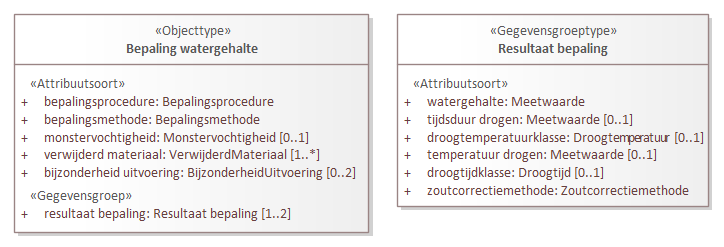
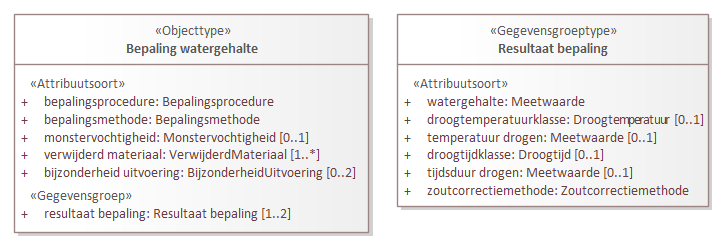
Conceptualmodel-GeotechnischbooronderzoekBHR-GT-2.3-2-20260424-20260701-112116

Changed region(s): [[0.5773, 0.5385, 0.9724, 0.6518], [0.5773, 0.4534, 0.9724, 0.5101], [0.5773, 0.6802, 0.8812, 0.7368]]

diff --git a/data/BHR-GT-cat.msword.html b/data/BHR-GT-cat.msword.html
@@ -6,7 +6,7 @@
                     table.list tbody tr th {background-color: #d3d3d3;}
                     table.list tbody tr th,
                     table.list tbody tr td {border: 1px solid black;}
-                </style></head><body><p>Conceptual model/Geotechnisch booronderzoek (BHR-GT)/20260424</p><p>Imvertor: Nightly-build.0</p><p>Model release: Conceptualmodel-GeotechnischbooronderzoekBHR-GT-2.3-2-20260424-20260701-084257</p><hr><section><h1>Artikel 1 Definitie van registratieobject, entiteiten en attributen</h1><section><h2>Registratieobject</h2><section id="global_class_Model_Registratieobject">
+                </style></head><body><p>Conceptual model/Geotechnisch booronderzoek (BHR-GT)/20260424</p><p>Imvertor: Nightly-build.0</p><p>Model release: Conceptualmodel-GeotechnischbooronderzoekBHR-GT-2.3-2-20260424-20260701-112116</p><hr><section><h1>Artikel 1 Definitie van registratieobject, entiteiten en attributen</h1><section><h2>Registratieobject</h2><section id="global_class_Model_Registratieobject">
                <table style="width: 100%;"><colgroup style="width: 30%;"></colgroup><colgroup style="width: 70%;"></colgroup><tbody><tr><th scope="row">Naam</th><td>Booronderzoek</td></tr><tr><th scope="row">Code</th><td>BHR</td></tr><tr><th scope="row">Definitie</th><td>
                         <p>Het geheel van gegevens dat betrekking heeft op een booronderzoek dat vanuit een bepaalde opdracht is uitgevoerd door op een bepaald moment op een bepaalde locatie in Nederland of zijn Exclusieve Economische Zone een boring uit te voeren en de monsters die daarmee uit de ondergrond zijn verkregen te beschrijven en/of te onderzoeken en/of in het boorgat zelf metingen aan de ondergrond uit te voeren.</p>
                      </td></tr><tr><th scope="row">Populatie</th><td>
@@ -5719,20 +5719,12 @@ Bij welke temperatuur er is gedroogd en hoe lang dat is gedaan, wordt uitgedrukt
                            <p>De verhouding tussen de hoeveelheid water en de hoeveelheid droge stof, uitgedrukt in massaprocenten.</p>
                         </td></tr><tr><th scope="row">Juridische status</th><td>Authentiek</td></tr><tr><th scope="row">Kardinaliteit</th><td>1</td></tr><tr><th scope="row">Domein</th><td></td></tr><tr><th scope="row">&nbsp;&nbsp;Naam</th><td>Meetwaarde 
                         4.1</td></tr><tr><th scope="row">&nbsp;&nbsp;Eenheid</th><td>% (procent)</td></tr><tr><th scope="row">&nbsp;&nbsp;Waardebereik</th><td>0 tot 2000</td></tr></tbody></table>
-               </section><section id="detail_attribute_Model_Resultaatbepaling_tijdsduurdrogen"><h4>  tijdsduur drogen</h4>
-                  <table style="width: 100%;"><colgroup style="width: 30%;"></colgroup><colgroup style="width: 70%;"></colgroup><tbody><tr><th scope="row">Type gegeven</th><td>Attribuut van Resultaat bepaling</td></tr><tr><th scope="row">Definitie</th><td>
-                           <p>De lengte van de periode gedurende welke het materiaal is gedroogd.</p>
-                        </td></tr><tr><th scope="row">Juridische status</th><td>Authentiek</td></tr><tr><th scope="row">Kardinaliteit</th><td>0..1</td></tr><tr><th scope="row">Domein</th><td></td></tr><tr><th scope="row">&nbsp;&nbsp;Naam</th><td>Meetwaarde 
-                        2.0</td></tr><tr><th scope="row">&nbsp;&nbsp;Eenheid</th><td>h (uur)</td></tr><tr><th scope="row">&nbsp;&nbsp;Waardebereik</th><td> vanaf 0</td></tr><tr><th scope="row">Regels</th><td>
-                           <p>Het attribuut moet aanwezig zijn wanneer de waarde van het attribuut <em>bepalingsprocedure</em> van de entiteit <em>Bepaling watergehalte</em> gelijk is aan <em>NEN_EN_ISO17892d1v2022_NEN8992v2025</em>.</p>
-                        </td></tr><tr><th scope="row">Toelichting</th><td>
-                           <p>Meestal wordt het materiaal 16 tot 24 uur gedroogd en neemt men aan dat al het water dan verdampt is. In uitzonderlijke gevallen is dat niet voldoende. Om zeker te weten dat al het water is verdampt, droogt men dan tot de massa van het materiaal na een uur drogen niet meer is veranderd.</p>
-                        </td></tr></tbody></table>
                </section><section id="detail_attribute_Model_Resultaatbepaling_droogtemperatuurklasse"><h4>  droogtemperatuurklasse</h4>
                   <table style="width: 100%;"><colgroup style="width: 30%;"></colgroup><colgroup style="width: 70%;"></colgroup><tbody><tr><th scope="row">Type gegeven</th><td>Attribuut van Resultaat bepaling</td></tr><tr><th scope="row">Definitie</th><td>
                            <p>De temperatuur waarbij het materiaal is gedroogd, uitgedrukt in een klasse.</p>
                         </td></tr><tr><th scope="row">Juridische status</th><td>Authentiek</td></tr><tr><th scope="row">Kardinaliteit</th><td>0..1</td></tr><tr><th scope="row">Domein</th><td></td></tr><tr><th scope="row">&nbsp;&nbsp;Naam</th><td><a class="link" href="#detail_class_Model_Droogtemperatuur">Droogtemperatuur</a></td></tr><tr><th scope="row">&nbsp;&nbsp;Type</th><td>Waardelijst uitbreidbaar</td></tr><tr><th scope="row">Regels</th><td>
-                           <p>Het attribuut mag niet aanwezig zijn wanneer de waarde van het attribuut <em>bepalingsprocedure</em> van de entiteit <em>Bepaling watergehalte</em> gelijk is aan <em>NEN_EN_ISO17892d1v2022_NEN8992v2025</em>.</p>
+                           <p>Het attribuut moet aanwezig zijn wanneer de waarde van het attribuut <em>bepalingsprocedure</em> van de entiteit <em>Bepaling watergehalte</em> gelijk is aan <em>ISO17892d1v2014</em>.<br clear="none">
+Het attribuut mag niet aanwezig zijn wanneer de waarde van het attribuut <em>bepalingsprocedure</em> van de entiteit <em>Bepaling watergehalte</em> gelijk is aan <em>NEN_EN_ISO17892d1v2022_NEN8992v2025</em>.</p>
                         </td></tr><tr><th scope="row">Toelichting</th><td>
                            <p>Afhankelijk van hoe nauwkeurig de droogtemperatuur op de apparatuur kan worden ingesteld, kan de geregistreerde temperatuur afwijken van de werkelijke temperatuur. De bepalingsprocedure kan voorwaarden stellen wat betreft de toegestane afwijking in het meten van de temperatuur.</p>
                         </td></tr></tbody></table>
@@ -5749,7 +5741,17 @@ Bij welke temperatuur er is gedroogd en hoe lang dat is gedaan, wordt uitgedrukt
                   <table style="width: 100%;"><colgroup style="width: 30%;"></colgroup><colgroup style="width: 70%;"></colgroup><tbody><tr><th scope="row">Type gegeven</th><td>Attribuut van Resultaat bepaling</td></tr><tr><th scope="row">Definitie</th><td>
                            <p>De lengte van de periode gedurende welke het materiaal is gedroogd, uitgedrukt in een klasse.</p>
                         </td></tr><tr><th scope="row">Juridische status</th><td>Authentiek</td></tr><tr><th scope="row">Kardinaliteit</th><td>0..1</td></tr><tr><th scope="row">Domein</th><td></td></tr><tr><th scope="row">&nbsp;&nbsp;Naam</th><td><a class="link" href="#detail_class_Model_Droogtijd">Droogtijd</a></td></tr><tr><th scope="row">&nbsp;&nbsp;Type</th><td>Waardelijst uitbreidbaar</td></tr><tr><th scope="row">Regels</th><td>
-                           <p>Het attribuut mag niet aanwezig zijn wanneer de waarde van het attribuut <em>bepalingsprocedure</em> van de entiteit <em>Bepaling watergehalte</em> gelijk is aan <em>NEN_EN_ISO17892d1v2022_NEN8992v2025</em>.</p>
+                           <p>Het attribuut moet aanwezig zijn wanneer de waarde van het attribuut <em>bepalingsprocedure</em> van de entiteit <em>Bepaling watergehalte</em> gelijk is aan <em>ISO17892d1v2014</em>.<br clear="none">
+Het attribuut mag niet aanwezig zijn wanneer de waarde van het attribuut <em>bepalingsprocedure</em> van de entiteit <em>Bepaling watergehalte</em> gelijk is aan <em>NEN_EN_ISO17892d1v2022_NEN8992v2025</em>.</p>
+                        </td></tr><tr><th scope="row">Toelichting</th><td>
+                           <p>Meestal wordt het materiaal 16 tot 24 uur gedroogd en neemt men aan dat al het water dan verdampt is. In uitzonderlijke gevallen is dat niet voldoende. Om zeker te weten dat al het water is verdampt, droogt men dan tot de massa van het materiaal na een uur drogen niet meer is veranderd.</p>
+                        </td></tr></tbody></table>
+               </section><section id="detail_attribute_Model_Resultaatbepaling_tijdsduurdrogen"><h4>  tijdsduur drogen</h4>
+                  <table style="width: 100%;"><colgroup style="width: 30%;"></colgroup><colgroup style="width: 70%;"></colgroup><tbody><tr><th scope="row">Type gegeven</th><td>Attribuut van Resultaat bepaling</td></tr><tr><th scope="row">Definitie</th><td>
+                           <p>De lengte van de periode gedurende welke het materiaal is gedroogd.</p>
+                        </td></tr><tr><th scope="row">Juridische status</th><td>Authentiek</td></tr><tr><th scope="row">Kardinaliteit</th><td>0..1</td></tr><tr><th scope="row">Domein</th><td></td></tr><tr><th scope="row">&nbsp;&nbsp;Naam</th><td>Meetwaarde 
+                        2.0</td></tr><tr><th scope="row">&nbsp;&nbsp;Eenheid</th><td>h (uur)</td></tr><tr><th scope="row">&nbsp;&nbsp;Waardebereik</th><td> vanaf 0</td></tr><tr><th scope="row">Regels</th><td>
+                           <p>Het attribuut moet aanwezig zijn wanneer de waarde van het attribuut <em>bepalingsprocedure</em> van de entiteit <em>Bepaling watergehalte</em> gelijk is aan <em>NEN_EN_ISO17892d1v2022_NEN8992v2025</em>.</p>
                         </td></tr><tr><th scope="row">Toelichting</th><td>
                            <p>Meestal wordt het materiaal 16 tot 24 uur gedroogd en neemt men aan dat al het water dan verdampt is. In uitzonderlijke gevallen is dat niet voldoende. Om zeker te weten dat al het water is verdampt, droogt men dan tot de massa van het materiaal na een uur drogen niet meer is veranderd.</p>
                         </td></tr></tbody></table>

diff --git a/data/BHR-GT-cat.respec.html b/data/BHR-GT-cat.respec.html
@@ -5711,20 +5711,12 @@ Bij welke temperatuur er is gedroogd en hoe lang dat is gedaan, wordt uitgedrukt
                            <p>De verhouding tussen de hoeveelheid water en de hoeveelheid droge stof, uitgedrukt in massaprocenten.</p>
                         </td></tr><tr><th scope="row">Juridische status</th><td>Authentiek</td></tr><tr><th scope="row">Kardinaliteit</th><td>1</td></tr><tr><th scope="row">Domein</th><td></td></tr><tr><th scope="row">&nbsp;&nbsp;Naam</th><td>Meetwaarde 
                         4.1</td></tr><tr><th scope="row">&nbsp;&nbsp;Eenheid</th><td>% (procent)</td></tr><tr><th scope="row">&nbsp;&nbsp;Waardebereik</th><td>0 tot 2000</td></tr></tbody></table>
-               </section><section id="detail_attribute_Model_Resultaatbepaling_tijdsduurdrogen"><h4>  tijdsduur drogen</h4>
-                  <table style="width: 100%;"><colgroup style="width: 30%;"></colgroup><colgroup style="width: 70%;"></colgroup><tbody><tr><th scope="row">Type gegeven</th><td>Attribuut van Resultaat bepaling</td></tr><tr><th scope="row">Definitie</th><td>
-                           <p>De lengte van de periode gedurende welke het materiaal is gedroogd.</p>
-                        </td></tr><tr><th scope="row">Juridische status</th><td>Authentiek</td></tr><tr><th scope="row">Kardinaliteit</th><td>0..1</td></tr><tr><th scope="row">Domein</th><td></td></tr><tr><th scope="row">&nbsp;&nbsp;Naam</th><td>Meetwaarde 
-                        2.0</td></tr><tr><th scope="row">&nbsp;&nbsp;Eenheid</th><td>h (uur)</td></tr><tr><th scope="row">&nbsp;&nbsp;Waardebereik</th><td> vanaf 0</td></tr><tr><th scope="row">Regels</th><td>
-                           <p>Het attribuut moet aanwezig zijn wanneer de waarde van het attribuut <em>bepalingsprocedure</em> van de entiteit <em>Bepaling watergehalte</em> gelijk is aan <em>NEN_EN_ISO17892d1v2022_NEN8992v2025</em>.</p>
-                        </td></tr><tr><th scope="row">Toelichting</th><td>
-                           <p>Meestal wordt het materiaal 16 tot 24 uur gedroogd en neemt men aan dat al het water dan verdampt is. In uitzonderlijke gevallen is dat niet voldoende. Om zeker te weten dat al het water is verdampt, droogt men dan tot de massa van het materiaal na een uur drogen niet meer is veranderd.</p>
-                        </td></tr></tbody></table>
                </section><section id="detail_attribute_Model_Resultaatbepaling_droogtemperatuurklasse"><h4>  droogtemperatuurklasse</h4>
                   <table style="width: 100%;"><colgroup style="width: 30%;"></colgroup><colgroup style="width: 70%;"></colgroup><tbody><tr><th scope="row">Type gegeven</th><td>Attribuut van Resultaat bepaling</td></tr><tr><th scope="row">Definitie</th><td>
                            <p>De temperatuur waarbij het materiaal is gedroogd, uitgedrukt in een klasse.</p>
                         </td></tr><tr><th scope="row">Juridische status</th><td>Authentiek</td></tr><tr><th scope="row">Kardinaliteit</th><td>0..1</td></tr><tr><th scope="row">Domein</th><td></td></tr><tr><th scope="row">&nbsp;&nbsp;Naam</th><td><a class="link" href="#detail_class_Model_Droogtemperatuur">Droogtemperatuur</a></td></tr><tr><th scope="row">&nbsp;&nbsp;Type</th><td>Waardelijst uitbreidbaar</td></tr><tr><th scope="row">Regels</th><td>
-                           <p>Het attribuut mag niet aanwezig zijn wanneer de waarde van het attribuut <em>bepalingsprocedure</em> van de entiteit <em>Bepaling watergehalte</em> gelijk is aan <em>NEN_EN_ISO17892d1v2022_NEN8992v2025</em>.</p>
+                           <p>Het attribuut moet aanwezig zijn wanneer de waarde van het attribuut <em>bepalingsprocedure</em> van de entiteit <em>Bepaling watergehalte</em> gelijk is aan <em>ISO17892d1v2014</em>.<br clear="none">
+Het attribuut mag niet aanwezig zijn wanneer de waarde van het attribuut <em>bepalingsprocedure</em> van de entiteit <em>Bepaling watergehalte</em> gelijk is aan <em>NEN_EN_ISO17892d1v2022_NEN8992v2025</em>.</p>
                         </td></tr><tr><th scope="row">Toelichting</th><td>
                            <p>Afhankelijk van hoe nauwkeurig de droogtemperatuur op de apparatuur kan worden ingesteld, kan de geregistreerde temperatuur afwijken van de werkelijke temperatuur. De bepalingsprocedure kan voorwaarden stellen wat betreft de toegestane afwijking in het meten van de temperatuur.</p>
                         </td></tr></tbody></table>
@@ -5741,7 +5733,17 @@ Bij welke temperatuur er is gedroogd en hoe lang dat is gedaan, wordt uitgedrukt
                   <table style="width: 100%;"><colgroup style="width: 30%;"></colgroup><colgroup style="width: 70%;"></colgroup><tbody><tr><th scope="row">Type gegeven</th><td>Attribuut van Resultaat bepaling</td></tr><tr><th scope="row">Definitie</th><td>
                            <p>De lengte van de periode gedurende welke het materiaal is gedroogd, uitgedrukt in een klasse.</p>
                         </td></tr><tr><th scope="row">Juridische status</th><td>Authentiek</td></tr><tr><th scope="row">Kardinaliteit</th><td>0..1</td></tr><tr><th scope="row">Domein</th><td></td></tr><tr><th scope="row">&nbsp;&nbsp;Naam</th><td><a class="link" href="#detail_class_Model_Droogtijd">Droogtijd</a></td></tr><tr><th scope="row">&nbsp;&nbsp;Type</th><td>Waardelijst uitbreidbaar</td></tr><tr><th scope="row">Regels</th><td>
-                           <p>Het attribuut mag niet aanwezig zijn wanneer de waarde van het attribuut <em>bepalingsprocedure</em> van de entiteit <em>Bepaling watergehalte</em> gelijk is aan <em>NEN_EN_ISO17892d1v2022_NEN8992v2025</em>.</p>
+                           <p>Het attribuut moet aanwezig zijn wanneer de waarde van het attribuut <em>bepalingsprocedure</em> van de entiteit <em>Bepaling watergehalte</em> gelijk is aan <em>ISO17892d1v2014</em>.<br clear="none">
+Het attribuut mag niet aanwezig zijn wanneer de waarde van het attribuut <em>bepalingsprocedure</em> van de entiteit <em>Bepaling watergehalte</em> gelijk is aan <em>NEN_EN_ISO17892d1v2022_NEN8992v2025</em>.</p>
+                        </td></tr><tr><th scope="row">Toelichting</th><td>
+                           <p>Meestal wordt het materiaal 16 tot 24 uur gedroogd en neemt men aan dat al het water dan verdampt is. In uitzonderlijke gevallen is dat niet voldoende. Om zeker te weten dat al het water is verdampt, droogt men dan tot de massa van het materiaal na een uur drogen niet meer is veranderd.</p>
+                        </td></tr></tbody></table>
+               </section><section id="detail_attribute_Model_Resultaatbepaling_tijdsduurdrogen"><h4>  tijdsduur drogen</h4>
+                  <table style="width: 100%;"><colgroup style="width: 30%;"></colgroup><colgroup style="width: 70%;"></colgroup><tbody><tr><th scope="row">Type gegeven</th><td>Attribuut van Resultaat bepaling</td></tr><tr><th scope="row">Definitie</th><td>
+                           <p>De lengte van de periode gedurende welke het materiaal is gedroogd.</p>
+                        </td></tr><tr><th scope="row">Juridische status</th><td>Authentiek</td></tr><tr><th scope="row">Kardinaliteit</th><td>0..1</td></tr><tr><th scope="row">Domein</th><td></td></tr><tr><th scope="row">&nbsp;&nbsp;Naam</th><td>Meetwaarde 
+                        2.0</td></tr><tr><th scope="row">&nbsp;&nbsp;Eenheid</th><td>h (uur)</td></tr><tr><th scope="row">&nbsp;&nbsp;Waardebereik</th><td> vanaf 0</td></tr><tr><th scope="row">Regels</th><td>
+                           <p>Het attribuut moet aanwezig zijn wanneer de waarde van het attribuut <em>bepalingsprocedure</em> van de entiteit <em>Bepaling watergehalte</em> gelijk is aan <em>NEN_EN_ISO17892d1v2022_NEN8992v2025</em>.</p>
                         </td></tr><tr><th scope="row">Toelichting</th><td>
                            <p>Meestal wordt het materiaal 16 tot 24 uur gedroogd en neemt men aan dat al het water dan verdampt is. In uitzonderlijke gevallen is dat niet voldoende. Om zeker te weten dat al het water is verdampt, droogt men dan tot de massa van het materiaal na een uur drogen niet meer is veranderd.</p>
                         </td></tr></tbody></table>
